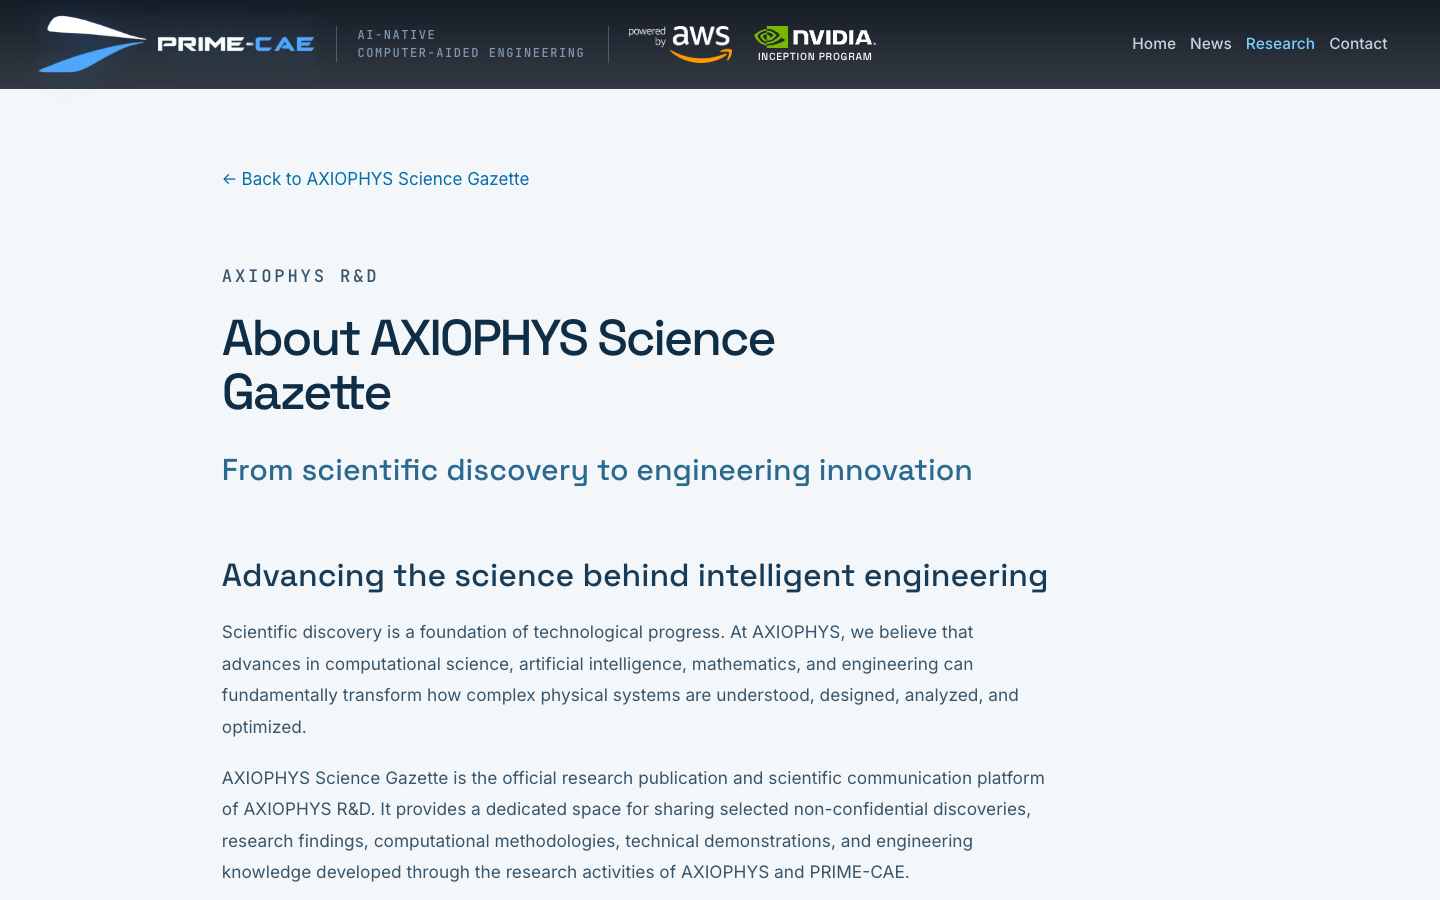
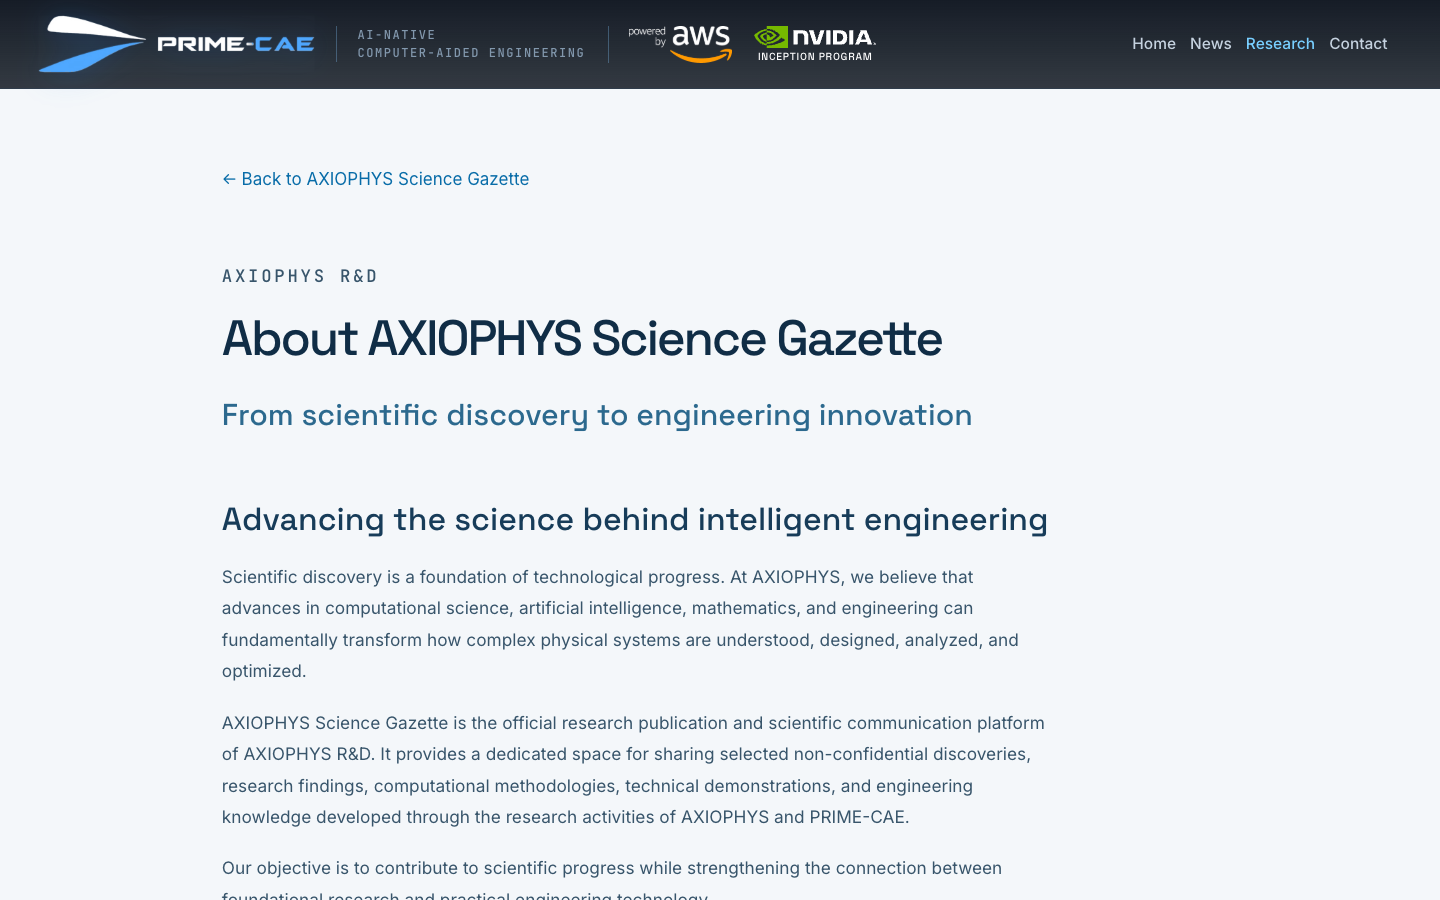
Keep Gazette about heading on one line

Changed region(s): [[0.1562, 0.6222, 0.7188, 1.0], [0.1562, 0.3422, 0.7188, 0.5911]]

diff --git a/research.html b/research.html
@@ -1,4 +1,4 @@
-<!doctype html><html lang="en"><head><meta charset="utf-8"><meta name="viewport" content="width=device-width,initial-scale=1"><link rel="icon" type="image/png" sizes="16x16" href="assets/favicon-16.png?v=2"><link rel="icon" type="image/png" sizes="32x32" href="assets/favicon-32.png?v=2"><link rel="icon" type="image/png" sizes="48x48" href="assets/favicon-48.png?v=2"><link rel="icon" type="image/png" sizes="192x192" href="assets/favicon-192.png?v=2"><link rel="apple-touch-icon" sizes="180x180" href="assets/favicon-180.png?v=2"><script>if ('scrollRestoration' in history) history.scrollRestoration='manual';addEventListener('pageshow',function(){if(!location.hash)scrollTo({top:0,left:0,behavior:'instant'})});</script><title>AXIOPHYS Science Gazette | Research &amp; Scientific Publications</title><meta name="description" content="Explore AXIOPHYS Science Gazette, the scientific communication platform of AXIOPHYS R&amp;D, featuring computational science, engineering demonstrations, research papers and PRIME-CAE manuals."><link rel="canonical" href="https://www.prime-cae.com/research.html"><meta name="theme-color" content="#030a14"><meta property="og:title" content="AXIOPHYS Science Gazette | Research &amp; Scientific Publications"><meta property="og:description" content="Explore AXIOPHYS Science Gazette, the scientific communication platform of AXIOPHYS R&amp;D, featuring computational science, engineering demonstrations, research papers and PRIME-CAE manuals."><meta property="og:url" content="https://www.prime-cae.com/research.html"><meta property="og:type" content="website"><meta property="og:image" content="https://www.prime-cae.com/media/gazette/science-gazette-poster.jpg"><link href="https://fonts.googleapis.com/css2?family=Space+Grotesk:wght@400;500;600&family=Inter:wght@400;500;600&family=JetBrains+Mono:wght@400;500&display=swap" rel="stylesheet"><link rel="stylesheet" href="css/tokens.css"><link rel="stylesheet" href="css/base.css"><link rel="stylesheet" href="css/layout.css"><link rel="stylesheet" href="css/components.css"><link rel="stylesheet" href="css/hero.css?v=hero-rail-1"><link rel="stylesheet" href="css/sections.css"><link rel="stylesheet" href="css/mobile.css?v=mobile-menu-right-1"><link rel="stylesheet" href="css/news.css?v=header-match-1"><link rel="stylesheet" href="css/research.css?v=14"></head><body class="gazette-page"><header class="nav" id="nav" data-env="navy">
+<!doctype html><html lang="en"><head><meta charset="utf-8"><meta name="viewport" content="width=device-width,initial-scale=1"><link rel="icon" type="image/png" sizes="16x16" href="assets/favicon-16.png?v=2"><link rel="icon" type="image/png" sizes="32x32" href="assets/favicon-32.png?v=2"><link rel="icon" type="image/png" sizes="48x48" href="assets/favicon-48.png?v=2"><link rel="icon" type="image/png" sizes="192x192" href="assets/favicon-192.png?v=2"><link rel="apple-touch-icon" sizes="180x180" href="assets/favicon-180.png?v=2"><script>if ('scrollRestoration' in history) history.scrollRestoration='manual';addEventListener('pageshow',function(){if(!location.hash)scrollTo({top:0,left:0,behavior:'instant'})});</script><title>AXIOPHYS Science Gazette | Research &amp; Scientific Publications</title><meta name="description" content="Explore AXIOPHYS Science Gazette, the scientific communication platform of AXIOPHYS R&amp;D, featuring computational science, engineering demonstrations, research papers and PRIME-CAE manuals."><link rel="canonical" href="https://www.prime-cae.com/research.html"><meta name="theme-color" content="#030a14"><meta property="og:title" content="AXIOPHYS Science Gazette | Research &amp; Scientific Publications"><meta property="og:description" content="Explore AXIOPHYS Science Gazette, the scientific communication platform of AXIOPHYS R&amp;D, featuring computational science, engineering demonstrations, research papers and PRIME-CAE manuals."><meta property="og:url" content="https://www.prime-cae.com/research.html"><meta property="og:type" content="website"><meta property="og:image" content="https://www.prime-cae.com/media/gazette/science-gazette-poster.jpg"><link href="https://fonts.googleapis.com/css2?family=Space+Grotesk:wght@400;500;600&family=Inter:wght@400;500;600&family=JetBrains+Mono:wght@400;500&display=swap" rel="stylesheet"><link rel="stylesheet" href="css/tokens.css"><link rel="stylesheet" href="css/base.css"><link rel="stylesheet" href="css/layout.css"><link rel="stylesheet" href="css/components.css"><link rel="stylesheet" href="css/hero.css?v=hero-rail-1"><link rel="stylesheet" href="css/sections.css"><link rel="stylesheet" href="css/mobile.css?v=mobile-menu-right-1"><link rel="stylesheet" href="css/news.css?v=header-match-1"><link rel="stylesheet" href="css/research.css?v=16"></head><body class="gazette-page"><header class="nav" id="nav" data-env="navy">
   <div class="progress" aria-hidden="true"><i id="progressBar"></i></div>
   <div class="shell nav__in">
     <a class="nav__brand" href="https://www.prime-cae.com/" aria-label="PRIME-CAE home">

diff --git a/about-science-gazette.html b/about-science-gazette.html
@@ -1,4 +1,4 @@
-<!doctype html><html lang="en"><head><meta charset="utf-8"><meta name="viewport" content="width=device-width,initial-scale=1"><link rel="icon" type="image/png" sizes="16x16" href="assets/favicon-16.png?v=2"><link rel="icon" type="image/png" sizes="32x32" href="assets/favicon-32.png?v=2"><link rel="icon" type="image/png" sizes="48x48" href="assets/favicon-48.png?v=2"><link rel="icon" type="image/png" sizes="192x192" href="assets/favicon-192.png?v=2"><link rel="apple-touch-icon" sizes="180x180" href="assets/favicon-180.png?v=2"><title>About AXIOPHYS Science Gazette | AXIOPHYS R&amp;D</title><meta name="description" content="The research philosophy behind AXIOPHYS Science Gazette and its connection between scientific discovery and engineering innovation."><link rel="canonical" href="https://www.prime-cae.com/about-science-gazette.html"><meta name="theme-color" content="#030a14"><meta property="og:title" content="About AXIOPHYS Science Gazette | AXIOPHYS R&amp;D"><meta property="og:description" content="The research philosophy behind AXIOPHYS Science Gazette and its connection between scientific discovery and engineering innovation."><meta property="og:url" content="https://www.prime-cae.com/about-science-gazette.html"><meta property="og:type" content="website"><meta property="og:image" content="https://www.prime-cae.com/media/gazette/science-gazette-poster.jpg"><link href="https://fonts.googleapis.com/css2?family=Space+Grotesk:wght@400;500;600&family=Inter:wght@400;500;600&family=JetBrains+Mono:wght@400;500&display=swap" rel="stylesheet"><link rel="stylesheet" href="css/tokens.css"><link rel="stylesheet" href="css/base.css"><link rel="stylesheet" href="css/layout.css"><link rel="stylesheet" href="css/components.css"><link rel="stylesheet" href="css/hero.css?v=hero-rail-1"><link rel="stylesheet" href="css/sections.css"><link rel="stylesheet" href="css/mobile.css?v=mobile-menu-right-1"><link rel="stylesheet" href="css/research.css?v=14"></head><body class="gazette-page"><header class="nav" id="nav" data-env="navy">
+<!doctype html><html lang="en"><head><meta charset="utf-8"><meta name="viewport" content="width=device-width,initial-scale=1"><link rel="icon" type="image/png" sizes="16x16" href="assets/favicon-16.png?v=2"><link rel="icon" type="image/png" sizes="32x32" href="assets/favicon-32.png?v=2"><link rel="icon" type="image/png" sizes="48x48" href="assets/favicon-48.png?v=2"><link rel="icon" type="image/png" sizes="192x192" href="assets/favicon-192.png?v=2"><link rel="apple-touch-icon" sizes="180x180" href="assets/favicon-180.png?v=2"><title>About AXIOPHYS Science Gazette | AXIOPHYS R&amp;D</title><meta name="description" content="The research philosophy behind AXIOPHYS Science Gazette and its connection between scientific discovery and engineering innovation."><link rel="canonical" href="https://www.prime-cae.com/about-science-gazette.html"><meta name="theme-color" content="#030a14"><meta property="og:title" content="About AXIOPHYS Science Gazette | AXIOPHYS R&amp;D"><meta property="og:description" content="The research philosophy behind AXIOPHYS Science Gazette and its connection between scientific discovery and engineering innovation."><meta property="og:url" content="https://www.prime-cae.com/about-science-gazette.html"><meta property="og:type" content="website"><meta property="og:image" content="https://www.prime-cae.com/media/gazette/science-gazette-poster.jpg"><link href="https://fonts.googleapis.com/css2?family=Space+Grotesk:wght@400;500;600&family=Inter:wght@400;500;600&family=JetBrains+Mono:wght@400;500&display=swap" rel="stylesheet"><link rel="stylesheet" href="css/tokens.css"><link rel="stylesheet" href="css/base.css"><link rel="stylesheet" href="css/layout.css"><link rel="stylesheet" href="css/components.css"><link rel="stylesheet" href="css/hero.css?v=hero-rail-1"><link rel="stylesheet" href="css/sections.css"><link rel="stylesheet" href="css/mobile.css?v=mobile-menu-right-1"><link rel="stylesheet" href="css/research.css?v=16"></head><body class="gazette-page"><header class="nav" id="nav" data-env="navy">
   <div class="progress" aria-hidden="true"><i id="progressBar"></i></div>
   <div class="shell nav__in">
     <a class="nav__brand" href="#top" aria-label="PRIME-CAE home">

diff --git a/css/research.css b/css/research.css
@@ -19,7 +19,7 @@
 .gazette-categories--floating a[aria-current="true"]{color:#086ca8}
 .gazette-intro{padding-block:clamp(64px,8vw,120px);scroll-margin-top:calc(var(--gazette-nav-h,var(--nav-h)) + 70px);border-bottom:1px solid #cad9e3}
 .gazette-intro>*{max-width:78ch}.gazette-eyebrow{font:500 .78rem/1.5 var(--font-mono);letter-spacing:.16em;text-transform:uppercase;color:#0875a9;margin-bottom:18px}
-.gazette-intro h1,.gazette-article h1{font:500 clamp(1.9rem,3.5vw,3.4rem)/1.08 var(--font-sans);letter-spacing:-.045em;color:#102d46;margin:0 0 14px;max-width:18ch}
+.gazette-intro h1,.gazette-article h1{font:500 clamp(1.1rem,5.6vw,3.1rem)/1.08 var(--font-sans);letter-spacing:-.045em;color:#102d46;margin:0 0 14px;max-width:none;white-space:nowrap}
 .gazette-intro h2{font:500 clamp(1.3rem,2vw,1.85rem)/1.3 var(--font-sans);color:#46708d;margin-bottom:32px}
 .gazette-intro p:not(.gazette-eyebrow){font-size:clamp(1rem,1.35vw,1.14rem);line-height:1.8;color:#36546b;margin:0 0 20px}
 .gazette-link{display:inline-flex;align-items:center;gap:10px;color:#075e96;font:600 1rem/1.5 var(--font-sans);padding:12px 0;border-bottom:1px solid currentColor;margin-top:16px}
@@ -38,3 +38,4 @@
 @media(max-width:700px){.gazette-hero__play{top:auto;bottom:8px;right:8px;font-size:.75rem;background:rgba(3,10,20,.08)}.gazette-categories{top:calc(var(--gazette-nav-h,var(--nav-h)) + 6px);left:var(--gutter);flex-direction:row;align-items:center;gap:clamp(8px,2.5vw,14px);max-width:calc(100vw - var(--gutter) - var(--gutter));overflow-x:auto;scrollbar-width:none}.gazette-categories a{min-height:44px;font-size:.9rem}.gazette-categories--floating{top:calc(var(--gazette-nav-h,var(--nav-h)) + 8px);padding:5px 10px;scrollbar-width:thin}.gazette-categories--floating a{font-size:.875rem}.gazette-intro{padding-block:54px}.gazette-browser{padding-bottom:60px}.gazette-article{padding-top:calc(var(--gazette-nav-h,var(--nav-h)) + 38px)}.gazette-article .gazette-back{margin-bottom:38px}}
 @media(max-width:360px){.gazette-categories{left:14px;gap:6px;max-width:calc(100vw - 28px)}.gazette-categories a{font-size:.82rem}.gazette-categories--floating{left:14px}.gazette-categories--floating a{font-size:.82rem}}
 @media(prefers-reduced-motion:reduce){.gazette-hero video{animation:none}}
+@media(max-width:420px){.gazette-intro h2,.gazette-article h2{font-size:clamp(1rem,4.4vw,1.2rem)}}
